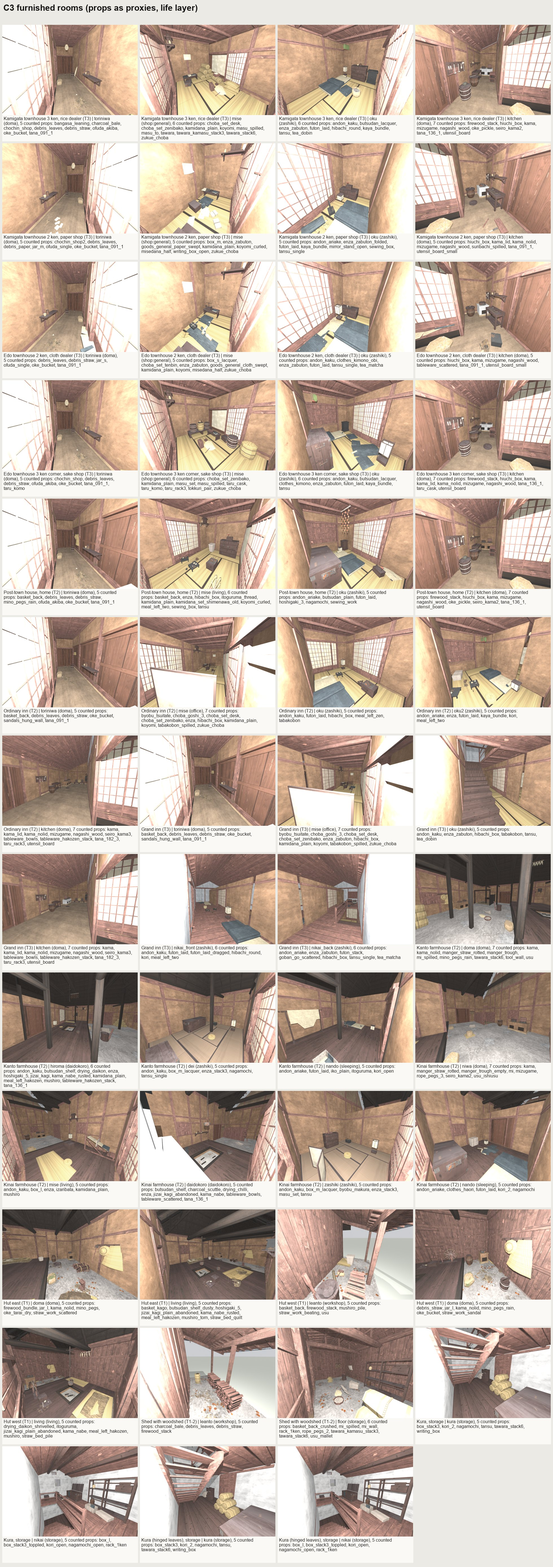
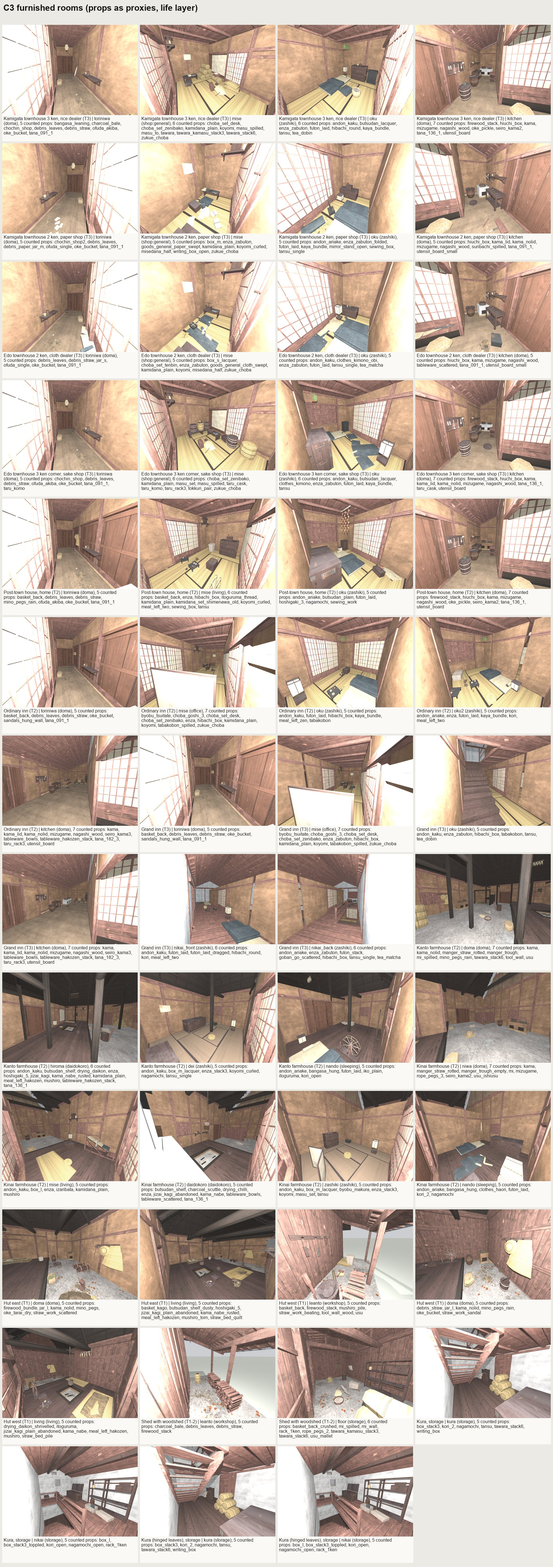
C3: render sheets (rooms of every furnished type, loot plans, dressed street + hamlet at player height)

diff --git a/TIMELOG_C3.md b/TIMELOG_C3.md
@@ -32,3 +32,7 @@
 2026-09-30 19:39:45 | GROUP DONE | hamlet dressing | 26 free objects (rice racks, stooks, scarecrow + clappers, persimmon + daikon poles, kakei, lever well, stable yard, charcoal, tools, Jizo + Koshin), kura in the hamlet; 0 problems | C3 | hamlet | 5h 16% wk 35%
 2026-09-30 19:40:18 | GROUP START | re-runs (machiya, shop, toilet, combos, C1 81, C2 21) | C3 | reruns | 5h 16% wk 35%
 2026-09-30 19:49:31 | GROUP DONE | re-runs | 105 buildings 6001 checks 0 failures: machiya 78/78, shop 137/137, toilet 19/19, C1 81 shells (townhouse 69/posttown 8/hatago 4), C2 21 shells, combos 60/60; prop suites not re-run (no shared prop / decor code changed) | C3 | reruns | 5h 16% wk 35%
+2026-09-30 19:49:38 | GROUP START | sheets (kura, rooms, plans, street, hamlet) | C3 | sheets | 5h 16% wk 35%
+2026-09-30 19:51:20 | SHEETS DONE | C3 | c3_kura, c3_rooms (57 room views), c3_plans (17 loot plans), c3_street, c3_hamlet | 5h 19% wk 35%
+2026-09-30 19:51:20 | GROUP DONE | sheets | 5 sheets in research/production/contact_sheets/c3_*.jpg, all looked at | C3 | sheets | 5h 19% wk 35%
+2026-09-30 19:51:20 | GROUP START | checklist (the bundled wave-1 walk) | C3 | checklist | 5h 19% wk 35%
